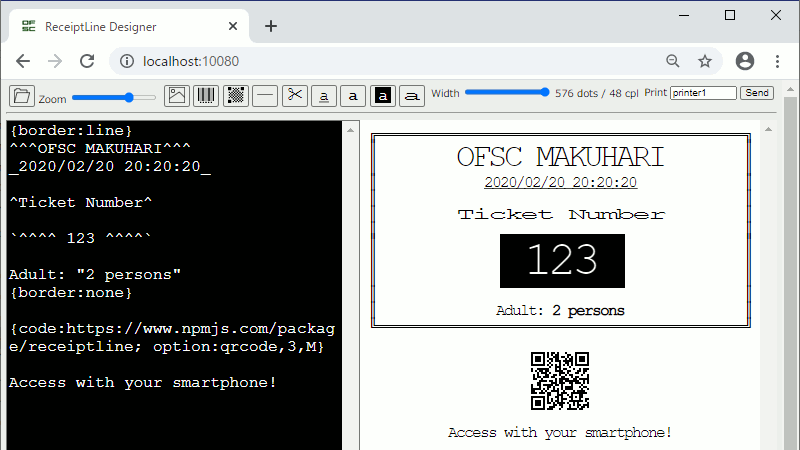
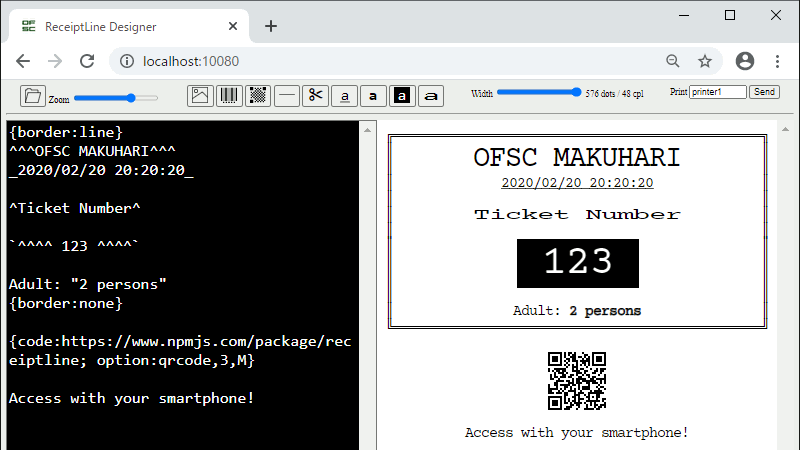
1.1.0

diff --git a/designer/index.html b/designer/index.html
@@ -378,6 +378,6 @@ limitations under the License.
             </div>
         </div>
     </div>
-    <footer>ReceiptLine Designer Version 1.0.2 © 2019 Open Foodservice System Consortium</footer>
+    <footer>ReceiptLine Designer Version 1.1.0 © 2019 Open Foodservice System Consortium</footer>
 </body>
 </html>

diff --git a/README.md b/README.md
@@ -16,7 +16,7 @@ ReceiptLine is the receipt description language that expresses the output image 
 It supports printing paper receipts using a receipt printer and displaying electronic receipts on a POS system or smartphone.  
 It can be described simply with markdown-like text data that does not depend on the paper width.  
 
-This reference implementation also provides the development tool "ReceiptLine Designer" for editing, previewing, hex dumps with a virtual printer, and test printing on receipt printers with LAN support.  
+This reference implementation also provides the development tool "ReceiptLine Designer" for editing, previewing, hex dumps with a virtual printer, and test printing on receipt printers.  
 
 # Receipt Printers
 
@@ -90,11 +90,17 @@ const svg = receiptline.transform(doc, display);
   - `cp866`: Cyrillic
   - `cp932`: Japanese
   - `cp1252`: Western European
-- `gamma` (for printer)
-  - image gamma correction (default: `1.8`)
 - `upsideDown` (for printer)
   - `false`: normal (default)
   - `true`: upside down
+- `spacing`
+  - `false`: no line spacing (default)
+  - `true`: line spacing
+- `cutting` (for printer)
+  - `false`: no paper cutting
+  - `true`: paper cutting (default)
+- `gamma` (for printer)
+  - image gamma correction (default: `1.8`)
 - `command`
   - `svg`: SVG (default)
   - `escpos`: Epson, Citizen
@@ -163,8 +169,10 @@ The ReceiptLine Designer provides more features.
         "port": 19100,
         "cpl": 48,
         "encoding": "cp437",
-        "gamma": 1.8,
         "upsideDown": false,
+        "spacing": false,
+        "cutting": true,
+        "gamma": 1.8,
         "command": "svg"
     }
     ```
@@ -175,8 +183,46 @@ The ReceiptLine Designer provides more features.
       - printer address
     - `port`
       - printer port (will be `9100`)
-    - `cpl`, `encoding`, `gamma`, `upsideDown`, `command`
+    - `cpl`, `encoding`, `upsideDown`, `spacing`, `cutting`, `gamma`, `command`
       - see the printer configuration above
+
+# Serial-LAN Converter
+
+The serial-LAN converter enables test printing to USB / Bluetooth printers that support virtual serial ports.  
+
+## Setup
+
+1. Install the virtual serial port driver for the printer and [Node Serialport](https://www.npmjs.com/package/serialport)
+
+    ```bash
+    $ npm install serialport
+    $ cd node_modules/receiptline
+    ```
+
+1. Configure servers.json
+
+    ```json
+    "serial": {
+        "host": "127.0.0.1",
+        "port": 9100,
+        "device": "COM9"
+    }
+    ```
+
+    - `serial`
+      - to enable it, change from `_serial`
+    - `host`
+      - local address
+    - `port`
+      - local port
+    - `device`
+      - the system path of the serial port
+
+1. Restart the server
+
+    ```bash
+    $ npm start
+    ```
 
 # Syntax
 

diff --git a/CHANGELOG.md b/CHANGELOG.md
@@ -2,6 +2,14 @@
 
 ## [Unreleased]
 
+## [1.1.0] - 2020-11-09
+### Added
+- Printing options (line spacing and paper cutting)
+- Serial-LAN converter
+
+### Changed
+- SVG font from OS standard font to web font
+
 ## [1.0.2] - 2020-07-23
 ### Fixed
 - A bug that images are not displayed in SVG created in Node.js environment by [@eggplants](https://github.com/eggplants)
